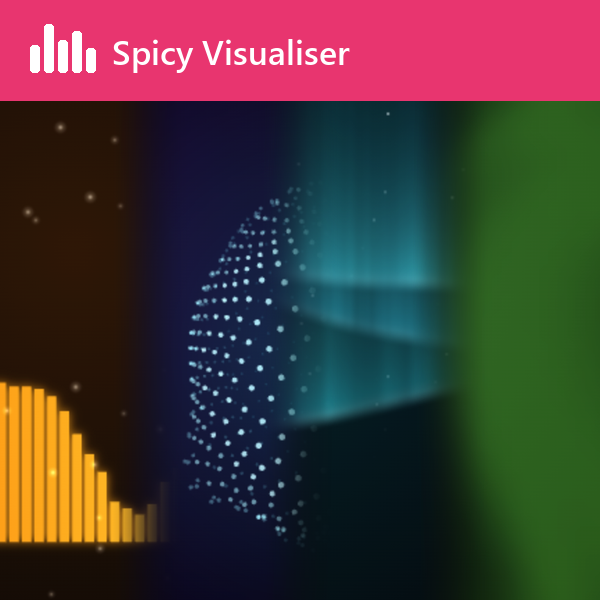
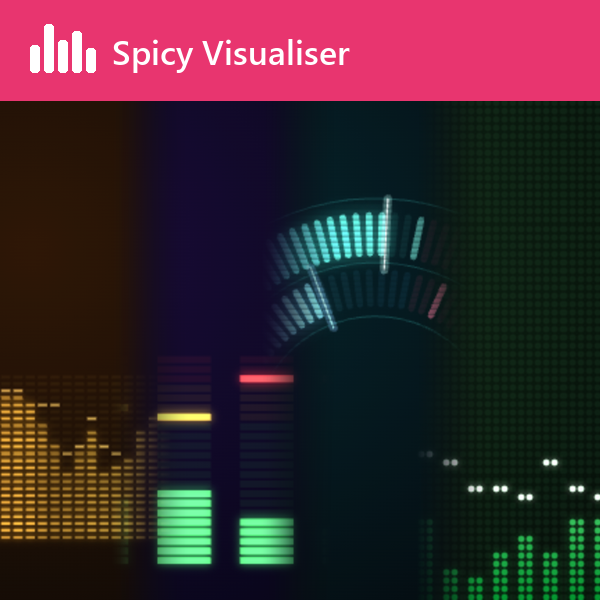
Marketplace card shows Spectrum, Meters, VU Meters and Wall

diff --git a/test/song/card-frames.js b/test/song/card-frames.js
@@ -19,7 +19,7 @@ const ALBUMS = [
   { cover: ["#6fd34a", "#e6f78a", "#1f8a6c"], bg: ["#12301a", "#050c07"] }, // green / lime
 ];
 
-const HIDE = ".NowBar,.LyricsContainer,.ViewControls,.lp-nolyr{visibility:hidden!important}";
+const HIDE = ".LyricsContainer,.ViewControls,.lp-nolyr{visibility:hidden!important}.NowBar{display:none!important}";
 
 function page(album) {
   return harness
@@ -59,8 +59,8 @@ async function open(b, js, album, atBar) {
 const setter = (p) => (k, v) => p.evaluate(([k, v]) => { const btn = document.querySelector(".lp-button"); btn.click(); document.querySelector(`[data-key=${k}] button[data-v=${v}]`).click(); btn.click(); }, [k, v]);
 
 
-const CARD = [["monstercat", 0, 22], ["ncs", 2, 23], ["aurora", 1, 23], ["plasma", 4, 18]];
-const N = 48;
+const CARD = [["holospec", 0, 24], ["ledm", 2, 12], ["vu", 1, 24], ["led", 4, 21]];
+const N = 25; // make-card.py uses picture 24 of each
 
 (async () => {
   const b = await chromium.launch({ channel: process.env.LP_BROWSER || undefined, args: ["--use-gl=angle", "--use-angle=swiftshader", "--enable-unsafe-swiftshader"] });

diff --git a/tools/make-card.py b/tools/make-card.py
@@ -11,8 +11,8 @@ from PIL import Image, ImageDraw, ImageFont
 ROOT = os.path.join(os.path.dirname(__file__), "..")
 SRC = os.path.join(ROOT, "test", "out", "card")
 OUT = os.path.join(ROOT, "docs", "screenshots", "card.webp")
-IDS = ["monstercat", "ncs", "aurora", "plasma"]
-FOCUS = {"monstercat": 0.3, "ncs": 0.5, "aurora": 0.5, "plasma": 0.6}
+IDS = ["holospec", "ledm", "vu", "led"]  # Spectrum, Meters, VU Meters, Wall
+FOCUS = {"holospec": 0.35, "ledm": 0.5, "vu": 0.5, "led": 0.6}
 N = 60  # frames in the loop (6 s at 100 ms each)
 S = 600
 BH = 100  # the bar on top
